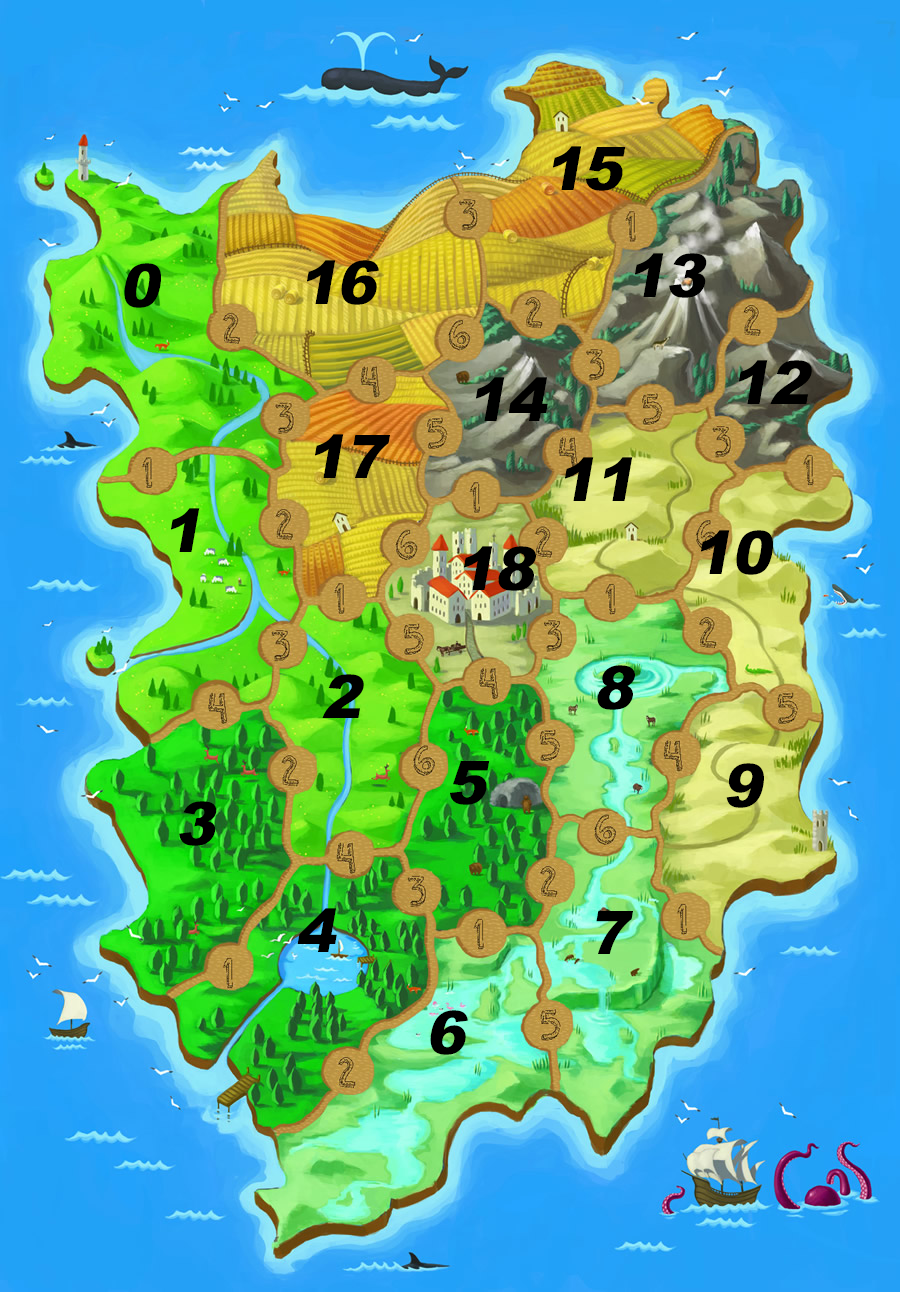
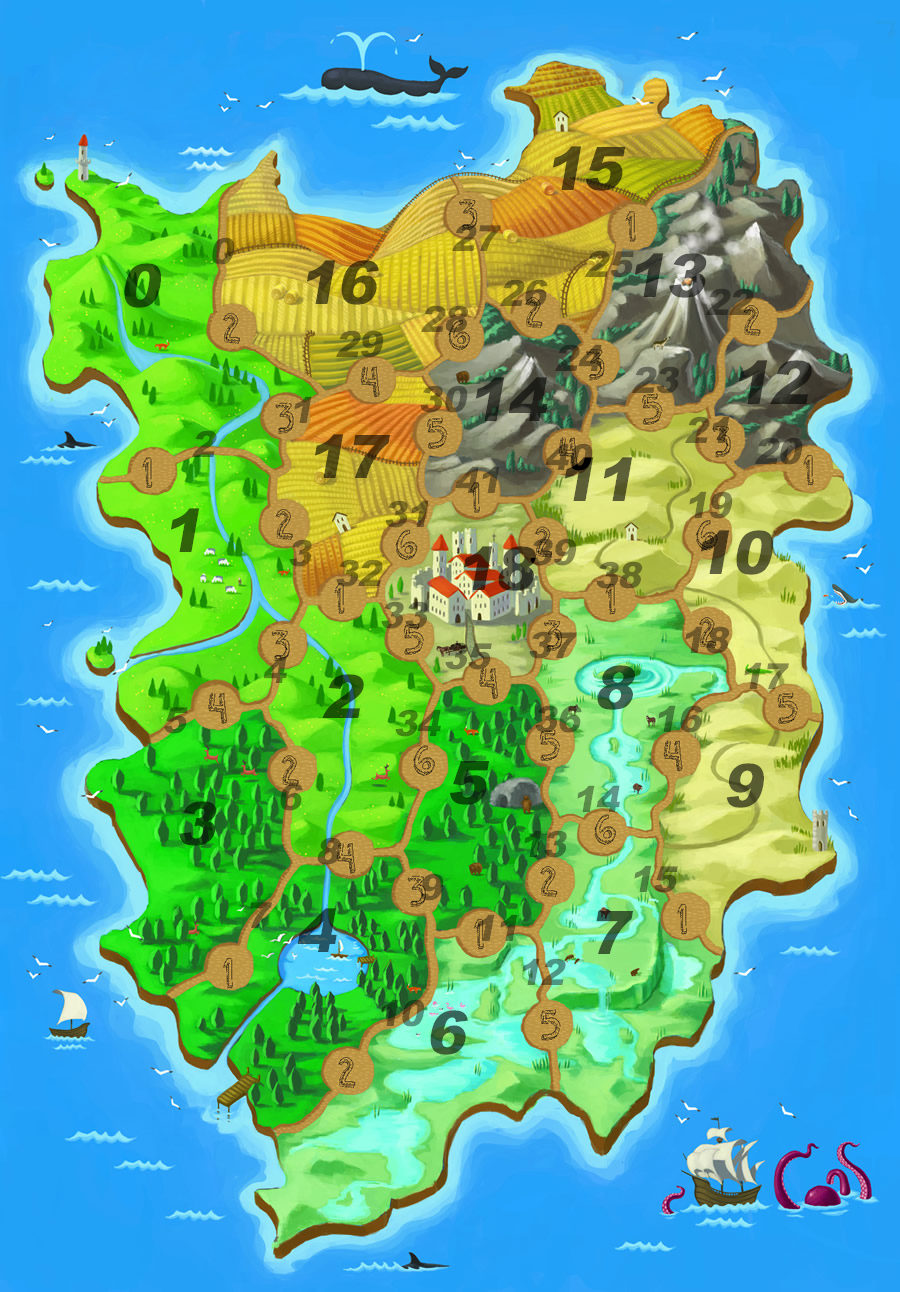
Gab divertiti a giocare con la GUI Statica! E' implementata!

diff --git a/francesco1.corsini-gabriele.carassale/src/main/java/it/polimi/deib/provaFinale2014/francesco1/corsini_gabriele/carassale/view/GUISwingStatic.java b/francesco1.corsini-gabriele.carassale/src/main/java/it/polimi/deib/provaFinale2014/francesco1/corsini_gabriele/carassale/view/GUISwingStatic.java
@@ -8,12 +8,17 @@ package it.polimi.deib.provaFinale2014.francesco1.corsini_gabriele.carassale.vie
 import it.polimi.deib.provaFinale2014.francesco1.corsini_gabriele.carassale.client.ConnectionClient;
 import it.polimi.deib.provaFinale2014.francesco1.corsini_gabriele.carassale.client.TypeOfInteraction;
 import java.awt.BorderLayout;
+import java.awt.Dimension;
 import java.awt.FlowLayout;
 import java.awt.GridLayout;
+import java.awt.Toolkit;
 import java.awt.event.ActionEvent;
 import java.awt.event.ActionListener;
 import java.awt.event.KeyEvent;
+import java.io.IOException;
 import java.util.ArrayList;
+import java.util.logging.Level;
+import java.util.logging.Logger;
 import javax.swing.*;
 
 /**
@@ -31,7 +36,6 @@ public class GUISwingStatic extends JFrame implements TypeOfInteraction {
     private JLabel LAction1, LAction2, LAction3, LCoins, LShepard1, LShepard2;
     private JLabel[] LTerrainCards = new JLabel[6];
     private JMenu file, connection;
-    private JMenuItem eMenuconnectionItemSocket, eMenuconnectionItemRMI;
     private JButton BMoveShepard, BMoveSheep, BBuyCard, BJoinSheeps, BKillSheep;
     private JButton BPlain, BForest, BRiver, BDesert, BMountain, BField;
     private ArrayList<JButton> BTerrain = new ArrayList<JButton>();
@@ -57,7 +61,8 @@ public class GUISwingStatic extends JFrame implements TypeOfInteraction {
     }
 
     /**
-     * Metodo creatore principale della GUI che inizializza tutti i pannelli e divide la frame
+     * Metodo creatore principale della GUI che inizializza tutti i pannelli e
+     * divide la frame
      */
     private void initUI() {
 
@@ -69,8 +74,6 @@ public class GUISwingStatic extends JFrame implements TypeOfInteraction {
         ImageIcon icon = new ImageIcon("exit.png");
 
         file = new JMenu("File");
-        file.setMnemonic(KeyEvent.VK_F);
-        connection = new JMenu("Connection");
         file.setMnemonic(KeyEvent.VK_F);
 
         JMenuItem eMenuFileItem = new JMenuItem("Exit", icon);
@@ -86,7 +89,7 @@ public class GUISwingStatic extends JFrame implements TypeOfInteraction {
         add(PMainEast = new JPanel(), BorderLayout.EAST);
         add(PMainWest = new JPanel(), BorderLayout.WEST);
         PMainWest.add(PMain = new JPanel(), BorderLayout.NORTH);
-        PMainWest.add(PSounth = new JPanel(), BorderLayout.SOUTH);
+
         PMain.setLayout(new BorderLayout());
         PMain.add(PNorth = new JPanel(), BorderLayout.NORTH);
         PNorth.setLayout(new BorderLayout());
@@ -100,21 +103,29 @@ public class GUISwingStatic extends JFrame implements TypeOfInteraction {
         PActions.setLayout(new GridLayout(2, 3));
         PMain.add(PLabelStatus = new JPanel(), BorderLayout.EAST);
         PLabelStatus.setLayout(new GridLayout(6, 1));
-        PMain.add(PRoads = new JPanel(), BorderLayout.SOUTH);
+        PMain.add(PSounth = new JPanel(), BorderLayout.SOUTH);
+        PSounth.setLayout(new BorderLayout());
+        PSounth.add(PRoads = new JPanel(), BorderLayout.NORTH);
         PRoads.setLayout(new GridLayout(6, 7));
+        PSounth.add(sheepDropDown = new JComboBox(), BorderLayout.SOUTH);
         PMainEast.setLayout(new BorderLayout());
         PMainEast.add(PMainEastNorth = new JPanel(), BorderLayout.NORTH);
         PMainEastNorth.setLayout(new GridLayout(4, 1));
-        PMainEast.add(PMainEastSouth = new JPanel(), BorderLayout.SOUTH);
-        PMainEastSouth.add(sheepDropDown = new JComboBox());
+        
+
+        try {
+            PMainEast.add(PSounth = new GUIDinamicPanel("src\\main\\resources\\DefaultBoardRegionMapping.png"), BorderLayout.CENTER);
+        } catch (IOException ex) {
+            Logger.getLogger(GUISwingStatic.class.getName()).log(Level.SEVERE, null, ex);
+        }
 
         PLabelAction.add(LAction1 = new JLabel("Non è il tuo turno"));
         PLabelAction.add(LAction2 = new JLabel("Attendi..."));
         PLabelAction.add(LAction3 = new JLabel(" "));
 
         PMainEastNorth.add(LCoins = new JLabel("Monete :" + coins));
-        PMainEastNorth.add(LShepard1 = new JLabel("Posizione 1° pastore: non posizionato"));
-        PMainEastNorth.add(LShepard2 = new JLabel("Posizione 2° pastore: non posizionato"));
+        PMainEastNorth.add(LShepard1 = new JLabel("Primo pastore in posizione nel terreno numero: non posizionato"));
+        PMainEastNorth.add(LShepard2 = new JLabel("Secondo pastore in posizione nel terreno numero: non posizionato"));
 
         sheepDropDown.addActionListener(new StaticDropDownSelectionListener(this));
         sheepDropDown.setEnabled(false);
@@ -141,15 +152,6 @@ public class GUISwingStatic extends JFrame implements TypeOfInteraction {
             }
         }
 
-        /*
-         eMenuconnectionItemSocket = new JMenuItem("Connect with Socket", icon);
-         eMenuconnectionItemSocket.setMnemonic(KeyEvent.VK_E);
-         eMenuconnectionItemSocket.addActionListener(new GUIConnectionListener("Socket", this));
-
-         eMenuconnectionItemRMI = new JMenuItem("Connect with RMI", icon);
-         eMenuconnectionItemRMI.setMnemonic(KeyEvent.VK_E);
-         eMenuconnectionItemRMI.addActionListener(new GUIConnectionListener("RMI", this));
-         */
         BMoveShepard = new JButton("Muovi Pastore");
         BMoveShepard.addActionListener(new StaticActionListener(this));
         BMoveShepard.setActionCommand("MoveShepard");
@@ -169,7 +171,7 @@ public class GUISwingStatic extends JFrame implements TypeOfInteraction {
         BBuyCard.setEnabled(false);
 
         BJoinSheeps = new JButton("Accoppia Ovini");
-        BBuyCard.addActionListener(new StaticActionListener(this));
+        BJoinSheeps.addActionListener(new StaticActionListener(this));
         BJoinSheeps.setActionCommand("JoinSheeps");
         PActions.add(BJoinSheeps);
         BJoinSheeps.setEnabled(false);
@@ -230,22 +232,30 @@ public class GUISwingStatic extends JFrame implements TypeOfInteraction {
         BField.setEnabled(false);
 
         file.add(eMenuFileItem);
-        //connection.add(eMenuconnectionItemSocket);
-        //connection.add(eMenuconnectionItemRMI);
-
         menubar.add(file);
-        menubar.add(connection);
-
         setJMenuBar(menubar);
 
         state = state.WAITINGFOROTHERPLAYER;
 
         setTitle("SheepLand");
-        setSize(500, 400);
+
+        Toolkit tk = Toolkit.getDefaultToolkit();
+        int xSize = ((int) tk.getScreenSize().getWidth());
+        int ySize = ((int) tk.getScreenSize().getHeight());
+        Dimension dim = new Dimension(xSize,ySize);
+        
+        setMaximumSize(dim);
+        setMinimumSize(dim);
+
+
         setLocationRelativeTo(null);
         setDefaultCloseOperation(EXIT_ON_CLOSE);
         setVisible(true);
         pack();
+        
+        Dimension size = BMoveShepard.getSize();
+        BMoveShepard.setMaximumSize(size);
+        BMoveShepard.setMinimumSize(size);
 
     }
 
@@ -259,6 +269,7 @@ public class GUISwingStatic extends JFrame implements TypeOfInteraction {
 
     /**
      * Metodo che attiva/disattiva i bottoni azione del giocatore
+     *
      * @param val true si attivano, false si disattivano
      */
     public void activateActions(boolean val) {
@@ -271,6 +282,7 @@ public class GUISwingStatic extends JFrame implements TypeOfInteraction {
 
     /**
      * Metodo che attiva/disattiva i bottoni delle strade
+     *
      * @param val true si attivano, false si disattivano
      */
     public void activateRoads(boolean val) {
@@ -283,6 +295,7 @@ public class GUISwingStatic extends JFrame implements TypeOfInteraction {
 
     /**
      * Metodo che attiva/disattiva i bottoni dei terreni
+     *
      * @param val true si attivano, false si disattivano
      */
     public void activateTerrains(boolean val) {
@@ -293,6 +306,7 @@ public class GUISwingStatic extends JFrame implements TypeOfInteraction {
 
     /**
      * Metodo che attiva/disattiva i bottoni della tipologia di terreno
+     *
      * @param val true si attivano, false si disattivano
      */
     public void activateTerrainType(boolean val) {
@@ -307,7 +321,9 @@ public class GUISwingStatic extends JFrame implements TypeOfInteraction {
     }
 
     /**
-     * Metodo che attiva/disattiva il menu a tendina con i le possibili Pecore da selezionare
+     * Metodo che attiva/disattiva il menu a tendina con i le possibili Pecore
+     * da selezionare
+     *
      * @param val true si attivano, false si disattivano
      * @param terrain su quale terreno sono gli ovini
      */
@@ -350,6 +366,7 @@ public class GUISwingStatic extends JFrame implements TypeOfInteraction {
 
     /**
      * Metodo che attiva/disattiva il menu a tendina
+     *
      * @param val true si attivano, false si disattivano
      */
     public void activateDropDown(boolean val) {
@@ -357,7 +374,9 @@ public class GUISwingStatic extends JFrame implements TypeOfInteraction {
     }
 
     /**
-     * Metodo che attiva/disattiva il menu a tendina e calcola i Pastori che devono figurarci
+     * Metodo che attiva/disattiva il menu a tendina e calcola i Pastori che
+     * devono figurarci
+     *
      * @param val true si attivano, false si disattivano
      */
     public void activateShepardSelection(boolean val) {
@@ -392,6 +411,7 @@ public class GUISwingStatic extends JFrame implements TypeOfInteraction {
 
     /**
      * Metodo chiamato dalla connection che aggiorna le monete
+     *
      * @param coins quale variazione
      * @param addCoins true se aggiunti, false se sottratti
      */
@@ -407,6 +427,7 @@ public class GUISwingStatic extends JFrame implements TypeOfInteraction {
 
     /**
      * Metodo chiamato dalla connection che cambia una carta
+     *
      * @param typeOfTerrain tipologia terreno
      * @param isSold true se è venduto, false se è comprato
      */
@@ -442,7 +463,9 @@ public class GUISwingStatic extends JFrame implements TypeOfInteraction {
     }
 
     /**
-     * Metodo chiamato dalla connection per muovere un animale(Ovino,BlackSHeep o Wolf)
+     * Metodo chiamato dalla connection per muovere un animale(Ovino,BlackSHeep
+     * o Wolf)
+     *
      * @param id id univoco animale
      * @param terrain terreno verso dove muovo
      */
@@ -464,7 +487,8 @@ public class GUISwingStatic extends JFrame implements TypeOfInteraction {
     }
 
     /**
-     * Metodo chiamato dalla connection che serve ad aggiungere un nuovo animale 
+     * Metodo chiamato dalla connection che serve ad aggiungere un nuovo animale
+     *
      * @param terrain dove viene aggiunto
      * @param animalType tipologia animale
      */
@@ -482,6 +506,7 @@ public class GUISwingStatic extends JFrame implements TypeOfInteraction {
 
     /**
      * Metodo chiamato dalla connection per uccidere un dato animale
+     *
      * @param id id univoco dell'animale da uccidere
      */
     public void refreshKillAnimal(int id) {
@@ -492,6 +517,7 @@ public class GUISwingStatic extends JFrame implements TypeOfInteraction {
 
     /**
      * Metodo chiamato dalla connection per far crescere un ovino
+     *
      * @param id id univoco animale
      * @param kind tipologia in cui è cresciuto
      */
@@ -503,6 +529,7 @@ public class GUISwingStatic extends JFrame implements TypeOfInteraction {
 
     /**
      * Metodo chiamato dalla connection per aggiungere un nuovo Pastore
+     *
      * @param id id del pastore
      * @param road dove viene piazzato inizialmente
      */
@@ -514,11 +541,11 @@ public class GUISwingStatic extends JFrame implements TypeOfInteraction {
             newShep.setIsOwned(true);
             if (firstShepard == true) {
                 newShep.setIsFirst(true);
-                LShepard1.setText("Posizione 1° pastore: " + newShep.getPostition());
+                LShepard1.setText("Primo pastore in posizione nel terreno numero: " + newShep.getPostition());
                 firstShepard = false;
             } else {
                 newShep.setIsFirst(false);
-                LShepard2.setText("Posizione 2° pastore: " + newShep.getPostition());
+                LShepard2.setText("Secondo pastore in posizione nel terreno numero: " + newShep.getPostition());
             }
         }
         LAction2.setText("E' stato aggiunto un Pastore sulla strada " + road);
@@ -527,6 +554,7 @@ public class GUISwingStatic extends JFrame implements TypeOfInteraction {
 
     /**
      * Metodo chiamato dalla connection per muovere un pastore
+     *
      * @param id id univoco pastore
      * @param road verso dove si muove
      */
@@ -540,15 +568,16 @@ public class GUISwingStatic extends JFrame implements TypeOfInteraction {
         LAction2.setText("E' stato mosso un Pastore sulla strada " + road);
 
         if (shepard.isIsFirst()) {
-            LShepard1.setText("Posizione 1° pastore: " + shepard.getPostition());
+            LShepard1.setText("Primo pastore in posizione nel terreno numero: " + shepard.getPostition());
         } else {
-            LShepard2.setText("Posizione 2° pastore: " + shepard.getPostition());
+            LShepard2.setText("Secondo pastore in posizione nel terreno numero: " + shepard.getPostition());
         }
 
     }
 
     /**
      * Metodo chiamato dalla connection per proclamare vincitore
+     *
      * @param isWinner true se è il vincitore
      */
     public void declareWinner(boolean isWinner) {
@@ -561,6 +590,7 @@ public class GUISwingStatic extends JFrame implements TypeOfInteraction {
 
     /**
      * Metodo chiamato dalla connection per sollevare eccezione a schermo
+     *
      * @param message stringa da stampare
      */
     public void errorMessage(String message) {

diff --git a/francesco1.corsini-gabriele.carassale/src/main/java/it/polimi/deib/provaFinale2014/francesco1/corsini_gabriele/carassale/view/GUIDinamicPanel.java b/francesco1.corsini-gabriele.carassale/src/main/java/it/polimi/deib/provaFinale2014/francesco1/corsini_gabriele/carassale/view/GUIDinamicPanel.java
@@ -6,6 +6,7 @@
 package it.polimi.deib.provaFinale2014.francesco1.corsini_gabriele.carassale.view;
 
 import java.awt.Graphics;
+import java.awt.Graphics2D;
 import java.awt.image.BufferedImage;
 import java.io.File;
 import java.io.IOException;
@@ -21,15 +22,22 @@ import javax.swing.JPanel;
  */
 public class GUIDinamicPanel extends JPanel {
 
+    public static BufferedImage image;
+
+    public GUIDinamicPanel(String string) throws IOException {
+        super();
+        image = ImageIO.read(new File(string));
+        setSize(image.getWidth(), image.getHeight());
+    }
+
     @Override
     protected void paintComponent(Graphics g) {
-        
-            
-            super.paintComponent(g);
-        //    g.drawImage(myPicture, 0, 0, getWidth(), getHeight(), this);
-        
-            
+
+        super.paintComponent(g);
+        g.drawImage(image, 0, 0, getWidth(), getHeight(), this);
         
 
     }
+
+    
 }

diff --git a/francesco1.corsini-gabriele.carassale/src/main/java/it/polimi/deib/provaFinale2014/francesco1/corsini_gabriele/carassale/view/GUIDinamic.java b/francesco1.corsini-gabriele.carassale/src/main/java/it/polimi/deib/provaFinale2014/francesco1/corsini_gabriele/carassale/view/GUIDinamic.java
@@ -7,8 +7,8 @@ import javax.swing.JPanel;
 public class GUIDinamic implements TypeOfInteraction {
 
     public GUIDinamic(ConnectionClient connectionClient) {
-        GUIDinamicPanel panel = new GUIDinamicPanel();
-        panel.paintComponent(null);
+        //GUIDinamicPanel panel = new GUIDinamicPanel();
+        //panel.paintComponent(null);
         JPanel pan = new JPanel();
         
     }
